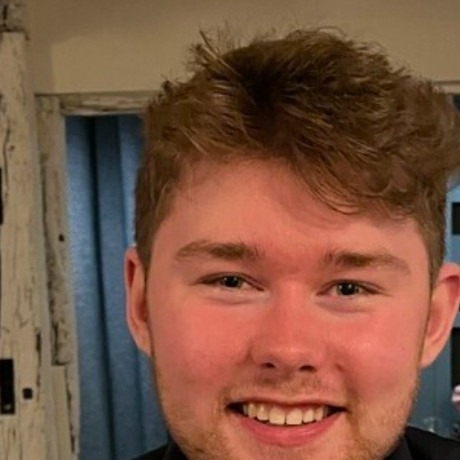
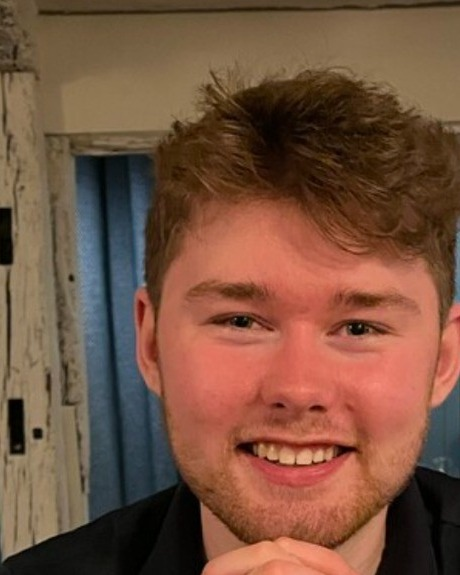
Show the photo at its own shape, with a wider crop
The hero photo was cropped tightly to a square. It is now a 4:5 crop
with the whole head in frame, and images.mjs resizes without cropping
and writes the shape to content/photo.ts, so a 1:1 or 4:5 headshot can
replace it with npm run images.

diff --git a/app/page.tsx b/app/page.tsx
@@ -6,6 +6,8 @@ import { Experience } from '@/components/experience'
 import { Education } from '@/components/education'
 import { Tags } from '@/components/tags'
 import { Footer } from '@/components/footer'
+import { Photo } from '@/components/photo'
+import { photo } from '@/content/photo'
 import { figures, profile } from '@/content/profile'
 import { skills } from '@/content/skills'
 import { work } from '@/content/work'
@@ -24,7 +26,7 @@ function structuredData() {
       name: profile.name,
       url: profile.url,
       jobTitle: profile.role,
-      image: `${profile.url}/img/photo-416.jpg`,
+      image: `${profile.url}/img/photo-${photo.widths.at(-1)}.jpg`,
       sameAs: [profile.linkedin, profile.github, profile.verifiedHandles],
     },
   }
@@ -40,7 +42,7 @@ export default function Home() {
       <SiteHeader />
 
       <main id="main" className="mx-auto w-full max-w-3xl grow px-4">
-        <section className="grid gap-8 pt-12 pb-10 sm:grid-cols-[1fr_104px] sm:pt-16">
+        <section className="grid gap-8 pt-12 pb-10 sm:grid-cols-[1fr_120px] sm:pt-16">
           <div>
             <h1 className="text-4xl font-bold tracking-tight sm:text-5xl">
               {profile.name}
@@ -79,23 +81,7 @@ export default function Home() {
               </a>
             </div>
           </div>
-          <picture className="hidden sm:block">
-            <source
-              type="image/avif"
-              srcSet="/img/photo-104.avif 1x, /img/photo-208.avif 2x, /img/photo-312.avif 3x"
-            />
-            <source
-              type="image/webp"
-              srcSet="/img/photo-104.webp 1x, /img/photo-208.webp 2x, /img/photo-312.webp 3x"
-            />
-            <img
-              src="/img/photo-208.jpg"
-              alt={profile.name}
-              width={104}
-              height={104}
-              className="rounded-xl border"
-            />
-          </picture>
+          <Photo alt={profile.name} />
         </section>
 
         <ul className="mb-16 grid grid-cols-2 border-y sm:grid-cols-4">

diff --git a/components/photo.tsx b/components/photo.tsx
@@ -1,0 +1,21 @@
+import { photo } from '@/content/photo'
+
+// Shown at its own shape (1:1, 4:5…), never cropped
+export function Photo({ alt }: { alt: string }) {
+  const [one, two, three] = photo.widths
+  const srcSet = (format: string) =>
+    `/img/photo-${one}.${format} 1x, /img/photo-${two}.${format} 2x, /img/photo-${three}.${format} 3x`
+  return (
+    <picture className="hidden sm:block">
+      <source type="image/avif" srcSet={srcSet('avif')} />
+      <source type="image/webp" srcSet={srcSet('webp')} />
+      <img
+        src={`/img/photo-${two}.jpg`}
+        alt={alt}
+        width={photo.width}
+        height={photo.height}
+        className="h-auto w-full rounded-xl border"
+      />
+    </picture>
+  )
+}

diff --git a/content/photo.ts b/content/photo.ts
@@ -1,0 +1,6 @@
+// Written by scripts/images.mjs from assets/photo.jpg; run `npm run images` to update
+export const photo = {
+  width: 120,
+  height: 150,
+  widths: [120, 240, 360, 480],
+}
